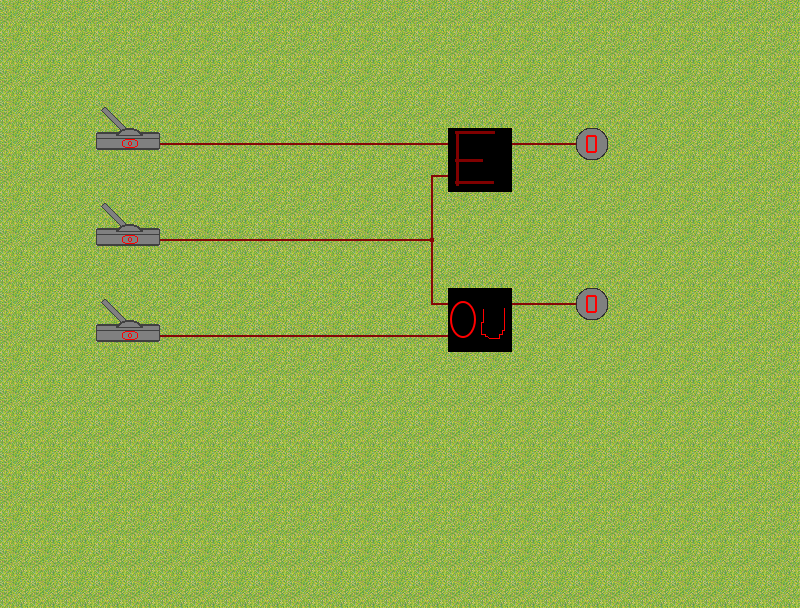
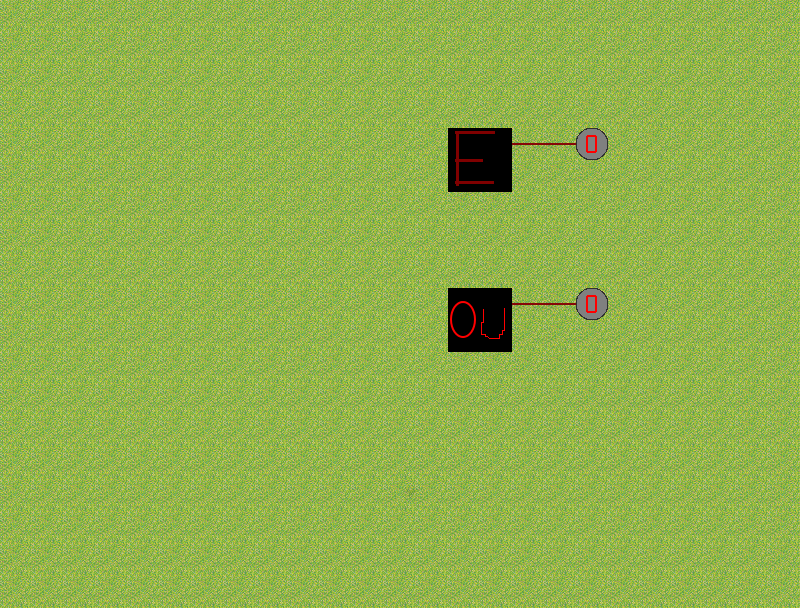
Corrigido pequenos erros na lógica do level 1

diff --git a/make/src/Fases/Fase1/fase1.c b/make/src/Fases/Fase1/fase1.c
@@ -5,32 +5,26 @@ void logicLevelOne(bool gateOne, bool gateTwo, bool gateThree, LevelOne *levelOn
 	if(gateOne)
 	{
 		levelOne->circ1 = al_load_bitmap("./data/levels/fase1/circ1_on.png");
-		levelOne->isOn[0] = true;
 	}
 	else
 	{
-		//al_destroy_bitmap(levelOne->circ1);
-		levelOne->isOn[0] = false;
+		levelOne->circ1 = al_load_bitmap("./data/levels/fase1/circ1_off.png");
 	}
 	if(gateTwo)
 	{
 		levelOne->circ2 = al_load_bitmap("./data/levels/fase1/circ2_on.png");
-		levelOne->isOn[1] = true;
 	}
 	else
 	{
-		//al_destroy_bitmap(levelOne->circ2);
-		levelOne->isOn[1] = false;
+		levelOne->circ2 = al_load_bitmap("./data/levels/fase1/circ2_off.png");
 	}
 	if(gateThree)
 	{
 		levelOne->circ3 = al_load_bitmap("./data/levels/fase1/circ3_on.png");
-		levelOne->isOn[2] = true;	
 	}
 	else
 	{ 
-		//al_destroy_bitmap(levelOne->circ3);
-		levelOne->isOn[2] = false;
+		levelOne->circ3 = al_load_bitmap("./data/levels/fase1/circ3_off.png");
 	}
 	if(gateOne && gateTwo)
 	{
@@ -59,17 +53,14 @@ void initDrawGatesLevelOne(LevelOne *levelOne){
 	for(i = 0; i < 5; i++){
 		levelOne->isOn[i] = false;
 	}
-	levelOne->circ1 = al_load_bitmap("./data/levels/fase1/circ1_on.png");
-	levelOne->circ2 = al_load_bitmap("./data/levels/fase1/circ2_on.png");
-	levelOne->circ3 = al_load_bitmap("./data/levels/fase1/circ3_on.png");
 	levelOne->circ4 = al_load_bitmap("./data/levels/fase1/circ4_on.png");
 	levelOne->circ5 = al_load_bitmap("./data/levels/fase1/circ5_on.png");
 }
 
 void drawLevelOne(LevelOne *levelOne){
-	if(levelOne->isOn[0])al_draw_bitmap(levelOne->circ1, 0, 0 , 0);
-	if(levelOne->isOn[1])al_draw_bitmap(levelOne->circ2, 0, 0 , 0);
-	if(levelOne->isOn[2])al_draw_bitmap(levelOne->circ3, 0, 0 , 0);
+	al_draw_bitmap(levelOne->circ1, 0, 0 , 0);
+	al_draw_bitmap(levelOne->circ2, 0, 0 , 0);
+	al_draw_bitmap(levelOne->circ3, 0, 0 , 0);
 	if(levelOne->isOn[3])al_draw_bitmap(levelOne->circ4, 0, 0 , 0);
 	if(levelOne->isOn[4])al_draw_bitmap(levelOne->circ5, 0, 0 , 0);
 }
